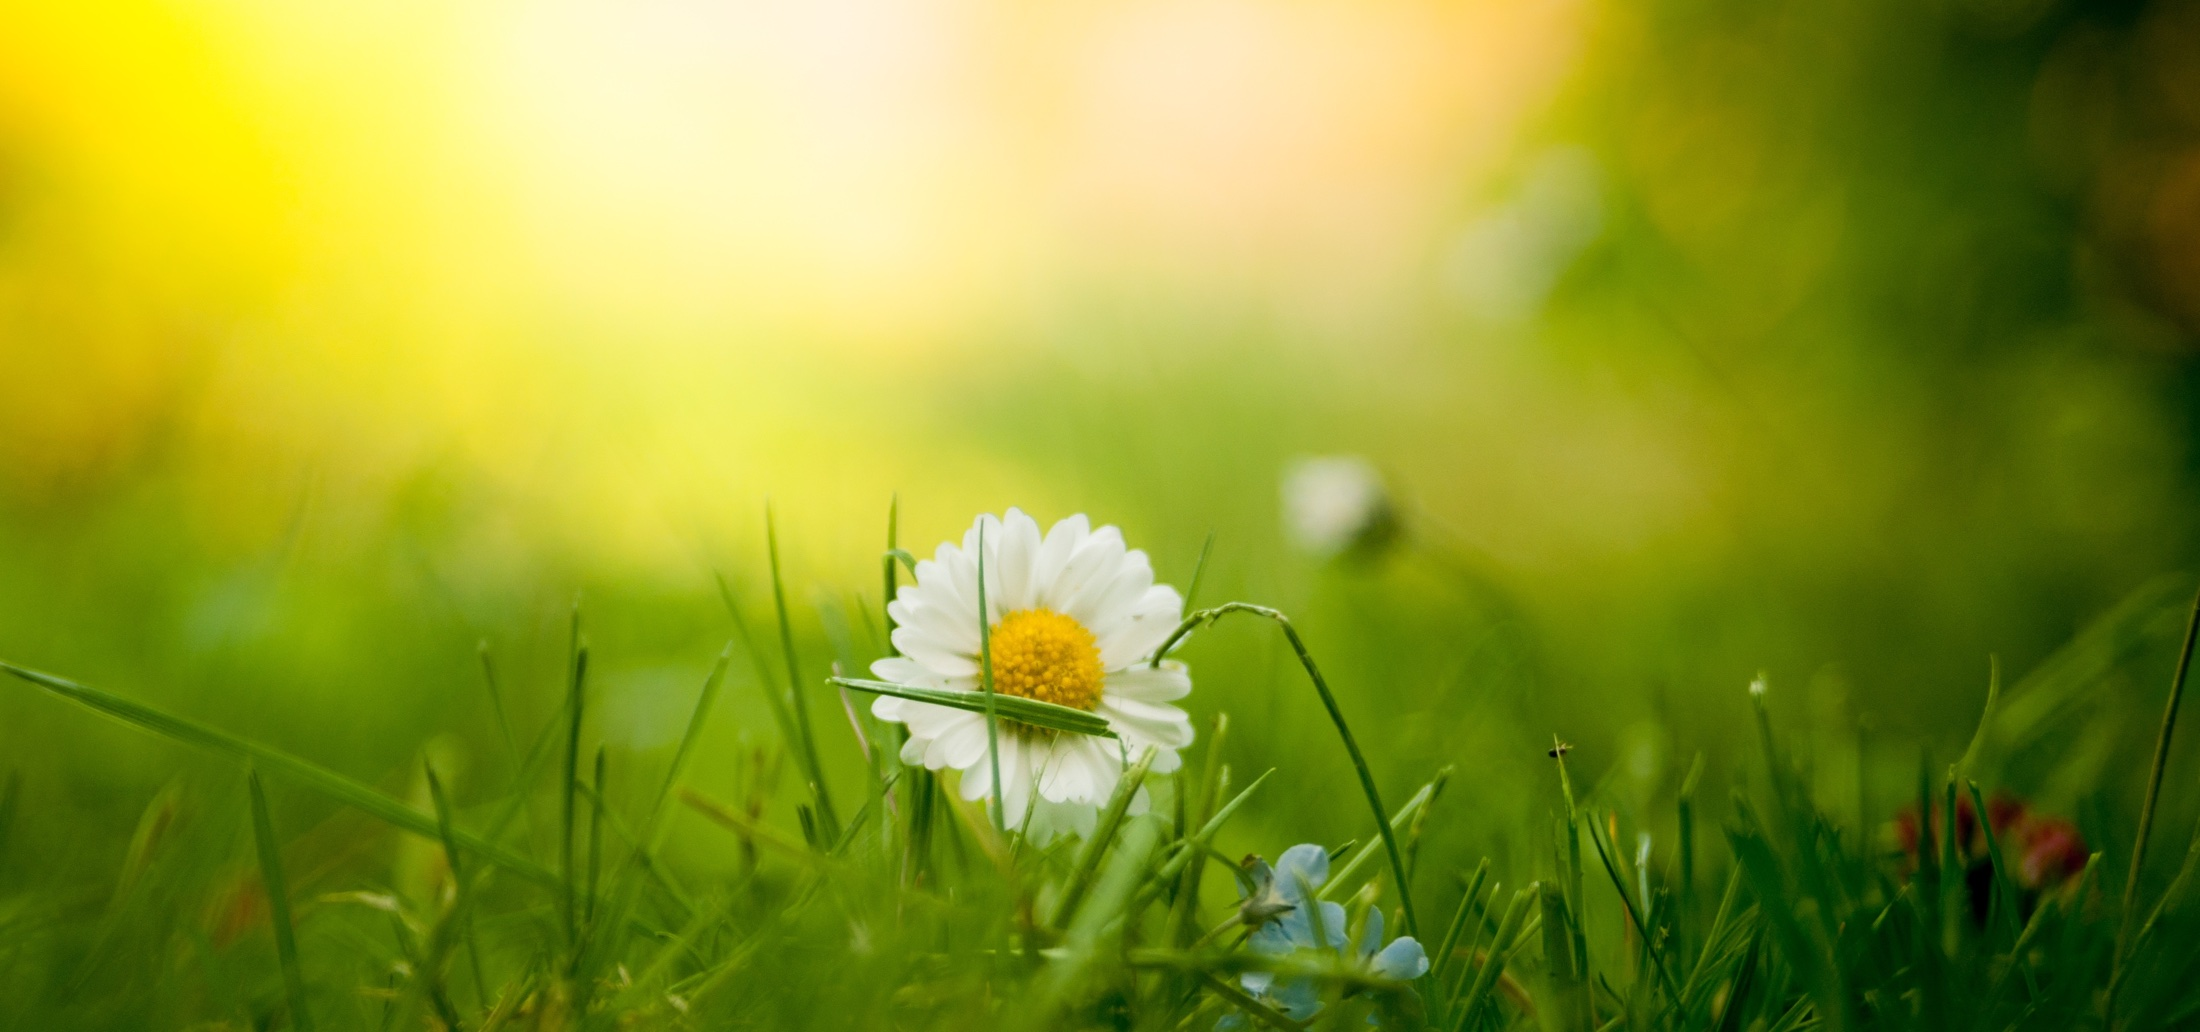
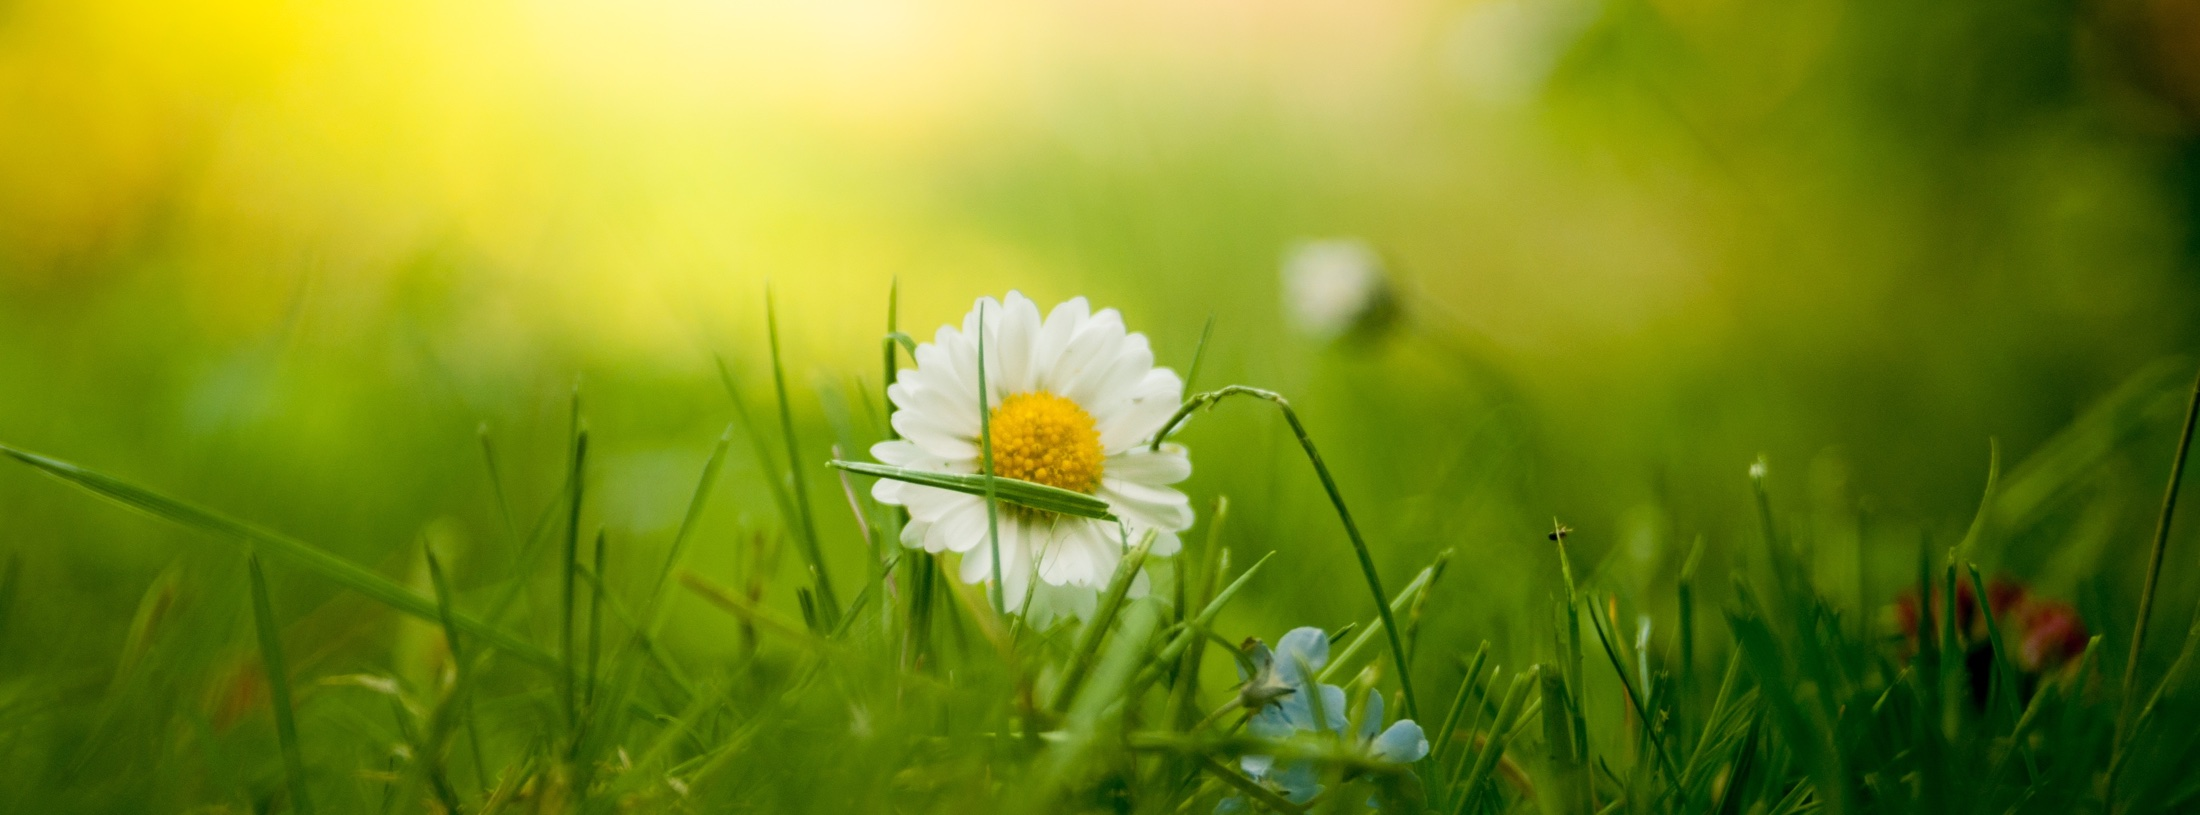
image cover update

diff --git a/docs/examples/landing/css/custom.css b/docs/examples/landing/css/custom.css
@@ -82,6 +82,12 @@
 /* About */
 .about {
   background-image: url("../images/grass.jpg");
+  background-size: cover;
+  background-position: top left;
+  background-repeat: no-repeat;
+  webkit-background-size: cover;
+  -moz-background-size: cover;
+  -o-background-size: cover;
   color: #333;
 }
 
